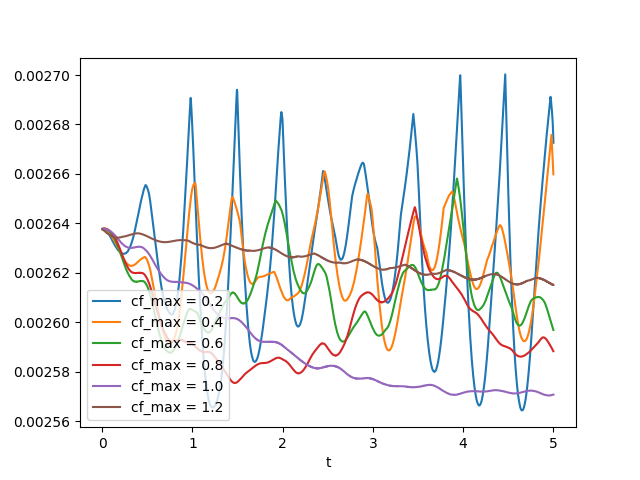
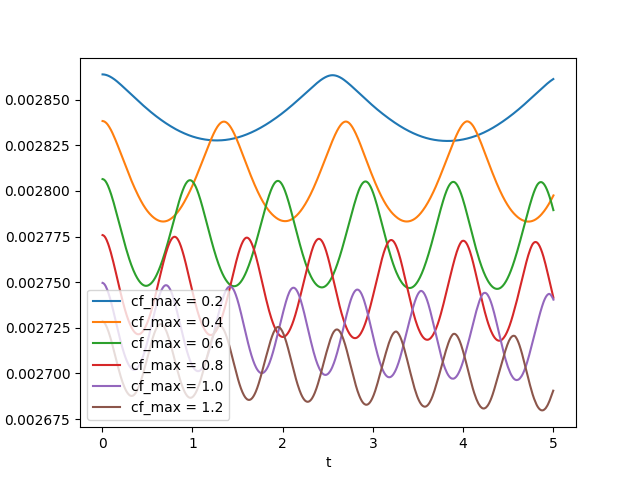
try out slightly different alpha

diff --git a/mhd-boris.py b/mhd-boris.py
@@ -128,8 +128,16 @@ def get_primitive(Mass, Momx, Momy, Momz, Energy, Bx, By, Bz, gamma, vol, cf_lim
     ca = np.sqrt((Bx**2 + By**2 + Bz**2) / rho)
     cf = np.sqrt(c0**2 + ca**2)
     alpha = np.minimum(1.0, cf_limit / cf)
+    alpha = 1.0 / (1.0 + ca**2 / cf_limit**2)
     vx *= alpha
     vy *= alpha
+    vz *= alpha
+    # recalculate the pressure
+    P = (
+        Energy / vol
+        - 0.5 * rho * (vx**2 + vy**2 + vz**2)
+        - 0.5 * (Bx**2 + By**2 + Bz**2)
+    ) * (gamma - 1.0) + 0.5 * (Bx**2 + By**2 + Bz**2)
 
     return rho, vx, vy, vz, P
 
